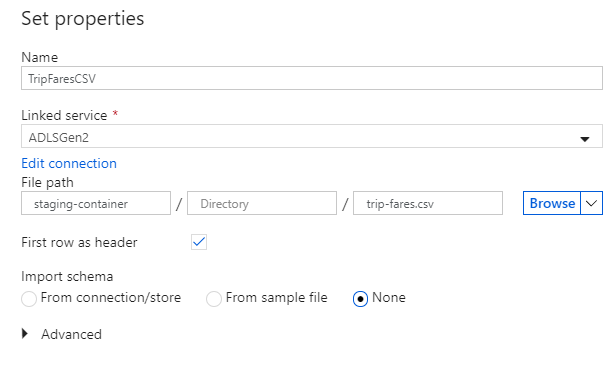
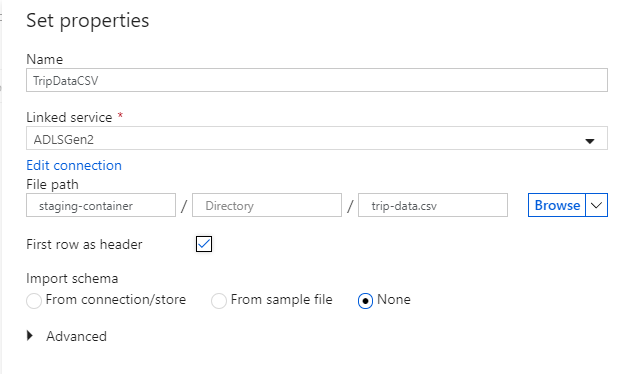
copy section

diff --git a/Data integration using Azure Data Factory and Azure Data Share.md b/Data integration using Azure Data Factory and Azure Data Share.md
@@ -124,10 +124,25 @@ You have successfully created your source dataset. Make sure in the source setti
 1. In the select format pane, select **DelimitedText** as you are writing to a csv file. Click continue.
 
     ![Portal](./assets/images/copy9.png)
-1. Name your sink dataset 'TripFaresCSV'. Select 'ADLSGen2' as your linked service. Enter where you want to write your csv file. For example, you can write your data to file `trip-fares.csv` in container `staging-container`. Set **First row as header** to true as you want your output data to have headers. Since no file exists in the destination yet, set **Import schema** to **None**. Click OK when finished.
+1. Name your sink dataset 'TripDataCSV'. Select 'ADLSGen2' as your linked service. Enter where you want to write your csv file. For example, you can write your data to file `trip-data.csv` in container `staging-container`. Set **First row as header** to true as you want your output data to have headers. Since no file exists in the destination yet, set **Import schema** to **None**. Click OK when finished.
 
     ![Portal](./assets/images/copy10.png)
 
-## Transform data from ADLS into SQL DW
+### Test the copy activity with a pipeline debug run
+
+1. To verify your copy activity is working correctly, click **Debug** at the top of the pipeline canvas to execute a debug run. A debug run allows you to test your pipeline either end-to-end or until a breakpoint before publishing it to the data factory service.
+
+    ![Portal](./assets/images/copy11.png)
+1. To monitor your debug run, go to the **Output** tab of the pipeline canvas. The monitoring screen will auto-refresh every 20 seconds or when you manually click the refresh button. The copy activity has a special monitoring view which can be access by clicking the eye-glasses icon in the **Actions** column.
+
+    ![Portal](./assets/images/copy12.png)
+1. The copy monitoring view gives the activity's execution details and performance characteristics. You can see information such as data read/written, rows read/written, files read/written, and throughput. If you have configured everything, you should see 49,999 rows written into one file in your ADLS sink.
+
+    ![Portal](./assets/images/copy13.png)
+1. Before moving on to the next section, its suggested that you publish your changes to the data factory service by clicking **Publish** in the factory top bar. While it is not covered in this lab, Azure Data Factory supports full git integration. For more information, see [source control in Azure Data Factory](https://docs.microsoft.com/azure/data-factory/source-control#troubleshooting-git-integration).
+
+    ![Portal](./assets/images/publish1.png)
+    
+## Transform data using mapping data flow
 
 ## Share data
